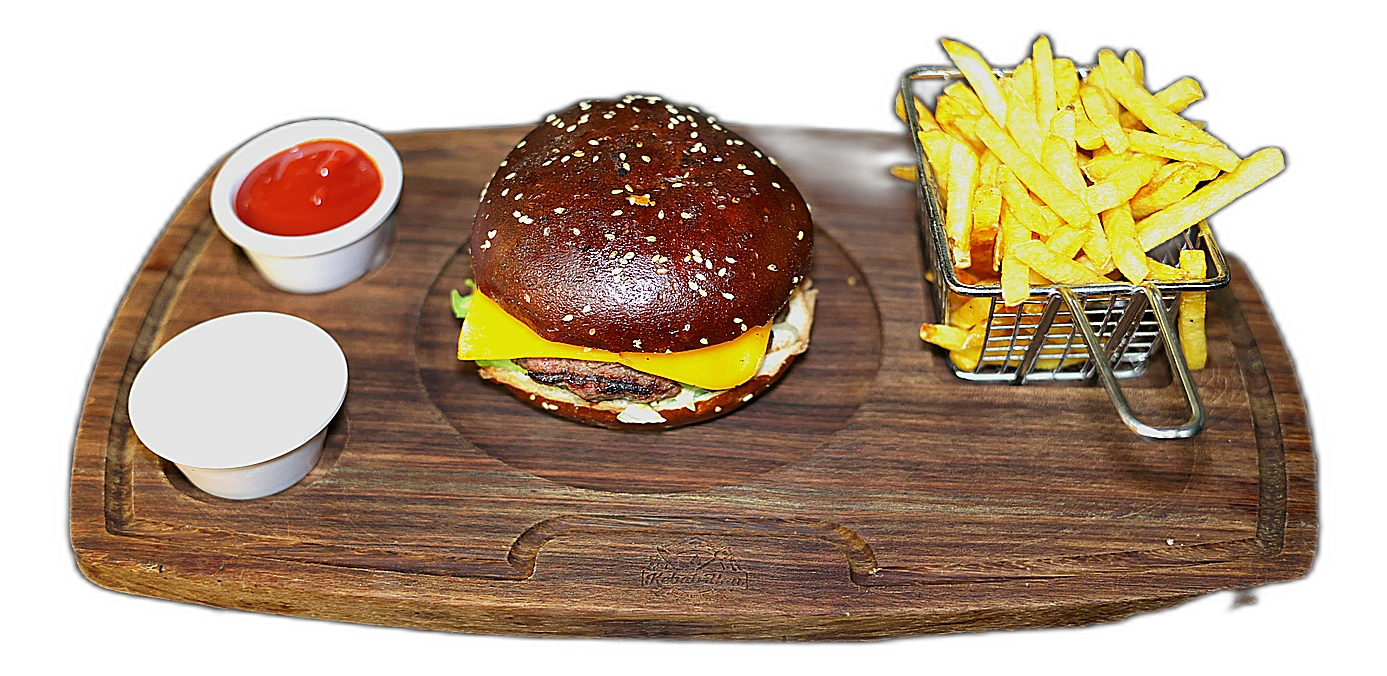
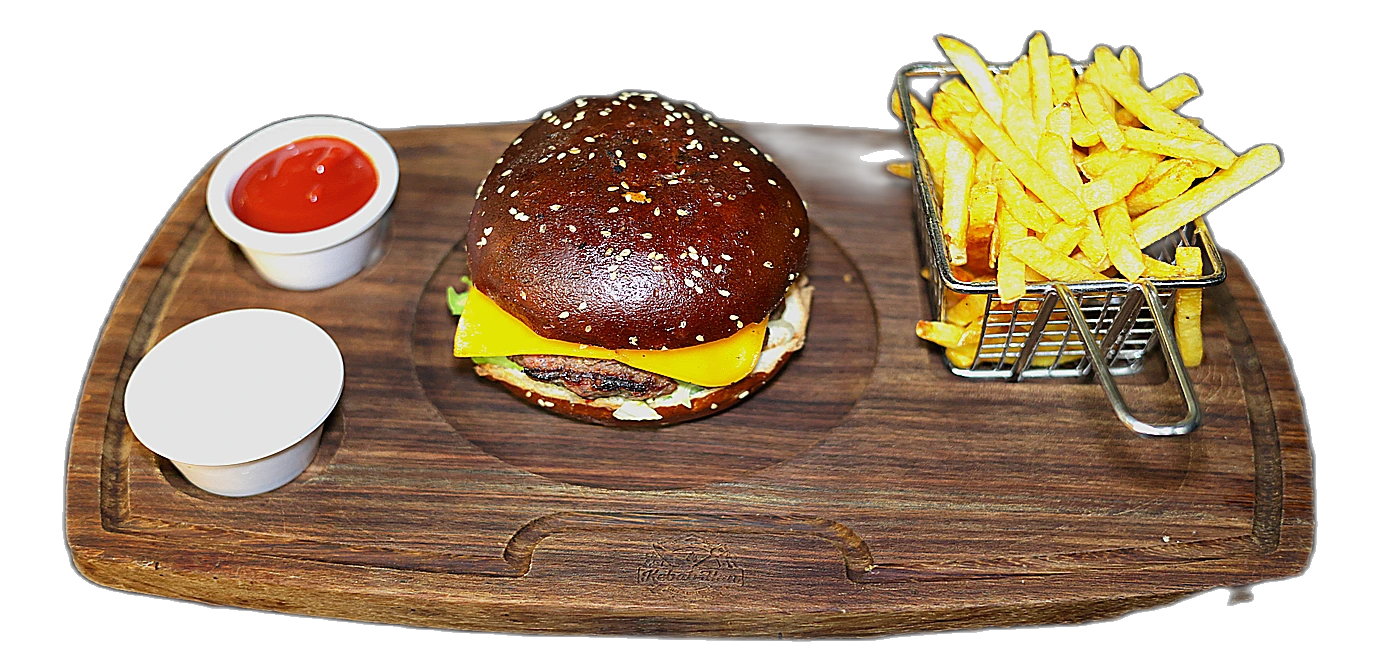
Fix halo/white-patch cuts on board2 and board3 images
Re-processed 5 images from dark-background sources:
- Doener_v1, Samosa_Gemuese, Bolani_Kachalo, Burger_mit_Pommes from v1.png (dark bg)
- Mahicha_Palau from v1.png (dark bg) — white halo on right side fixed
- Grill_Fish from dark bg source with alpha clamp

Remove pixelated Pizza_Champignons.webp reference from board3 (no img).

Changed region(s): [[0.0312, 0.0312, 0.9659, 0.9688], [0.1558, 0.4375, 0.2181, 0.4688]]

diff --git a/board3.html b/board3.html
@@ -272,7 +272,7 @@ const SLIDES=[
       {n:"35. mit Spinat",p:"10",d:"Tomatensoße · Gouda · Spinat",img:"Pizza_Spinat.webp"},
       {n:"36. Salami / Sucuk",p:"10",d:"Tomatensoße · Gouda · Salami oder Sucuk",img:"Pizza_Salami_Sucuk.webp"},
       {n:"37. mit Tunfisch",p:"10",d:"Tomatensoße · Gouda · Thunfisch · Zwiebeln",img:"Pizza_Tunfisch.webp"},
-      {n:"38. Champignons",p:"10",d:"Tomatensoße · Gouda · Champignons",img:"Pizza_Champignons.webp"},
+      {n:"38. Champignons",p:"10",d:"Tomatensoße · Gouda · Champignons"},
       {n:"39. mit Gemüse",p:"13",d:"Tomatensoße · Paprika · Champignons · Oliven · Zucchini",img:"Pizza_Gemuese.webp"},
     ]},
   ]},
